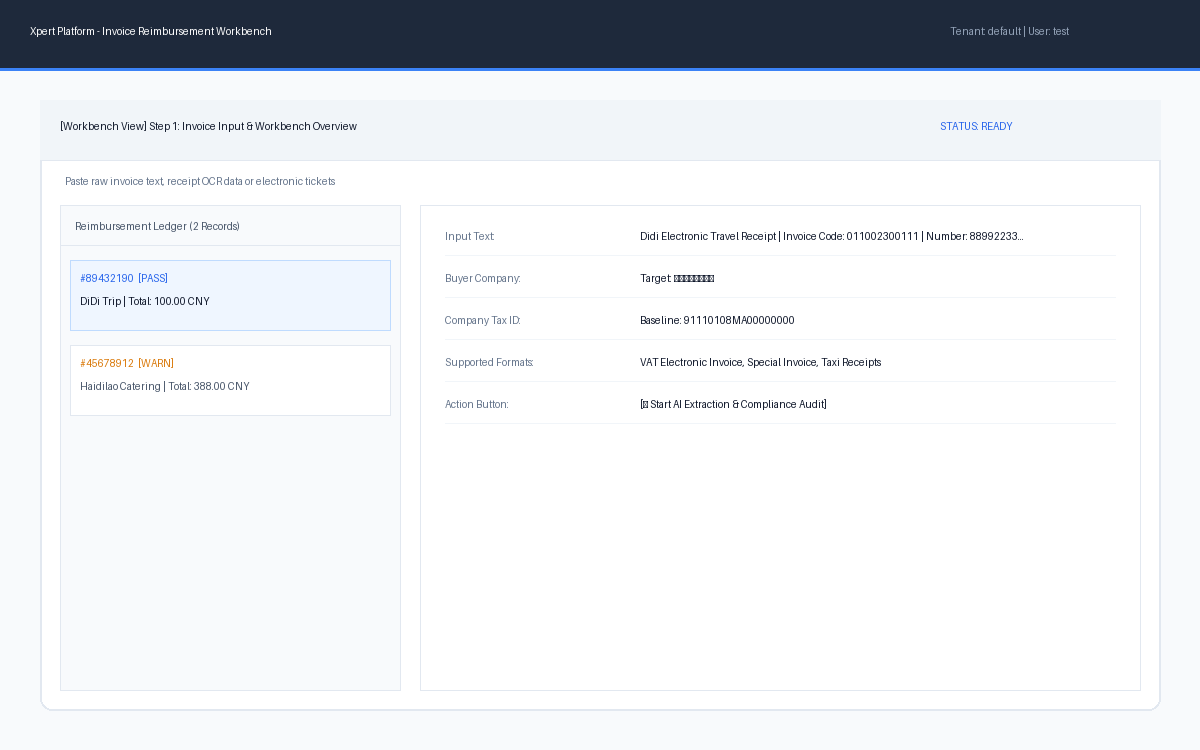
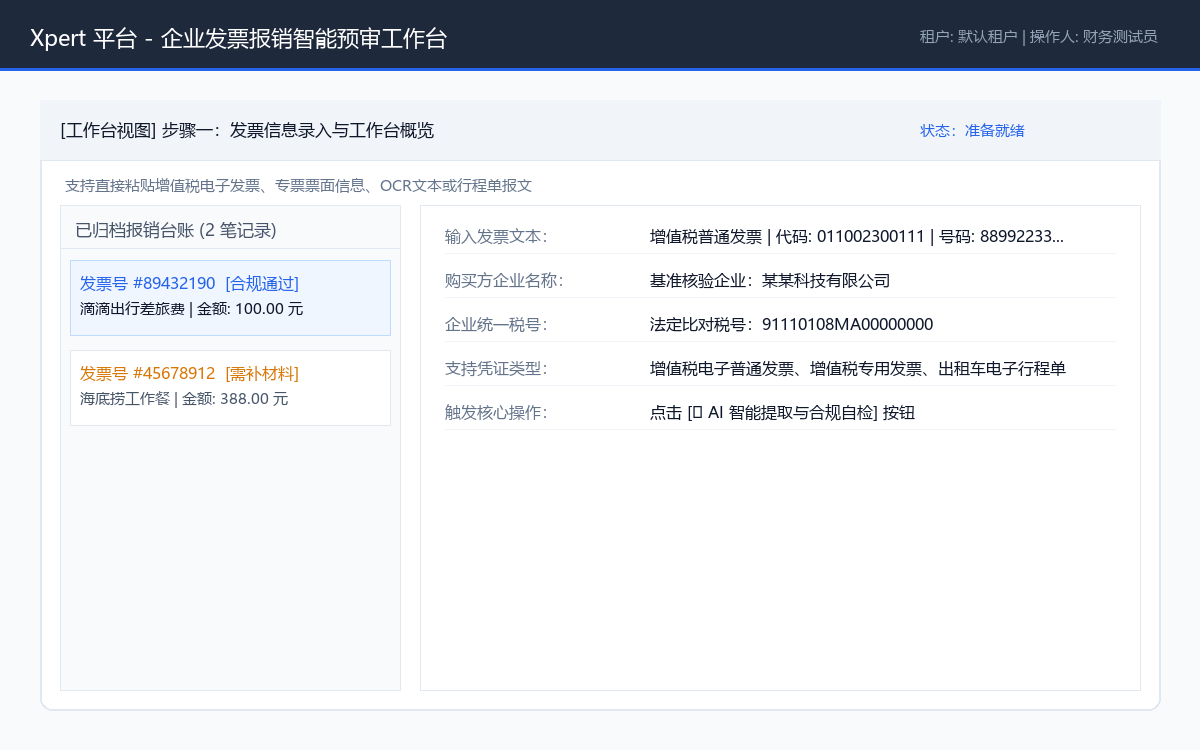
docs: localize README, AGENTS and screenshots into Simplified Chinese

diff --git a/community/apps/invoice-reimbursement/README.md b/community/apps/invoice-reimbursement/README.md
@@ -1,53 +1,54 @@
-# 企业发票报销智能预审工作台 (Invoice Reimbursement Workbench)
+# 企业发票报销智能预审工作台
 
-> **Xpert 平台业务应用插件 (Agentic App)** · 独立插件交付 · 遵循 Xpert 官方插件规范
+> **Xpert 平台业务应用插件** · 独立插件工程交付 · 严格遵循 Xpert 官方插件规范
 
 ---
 
 ## 一、产品说明与业务闭环
 
 ### 1.1 目标用户与业务痛点
-- **目标用户**：经常提报日常报销的企业员工（如销售、研发、差旅人员），以及企业财务初审专员。
+- **目标用户**：需要定期提报差旅和日常报销的企业员工（如销售、研发、现场工程师），以及负责发票合规查验的财务初审专员。
 - **原有工作方式与核心痛点**：
-  1. **手工逐字录入繁琐低效**：员工报销时需要手动抄写发票代码、发票号码、开票日期、金额、税额等，稍有手滑输错一位，报销流程被打回重走；
-  2. **抬头与税号易错导致二次开票**：员工常常忽略开票抬头或输错税号，直到财务月末扎账查验不通过才发现，造成重新开票甚至无法报销；
-  3. **特殊品目合规制度易遗漏**：财务规定餐饮、礼品招待等品目必须提供随行人员名单和业务招待说明，普通员工往往不清楚制度要求直接提报，增加财务沟通成本。
+  1. **手工逐字录入繁琐低效**：员工报销时需要手动抄录发票代码、发票号码、开票日期、金额、税额等十几项字段，稍有手滑抄错一位，报销单即被财务打回重走流程；
+  2. **抬头与税号易错导致二次开票**：员工常常忽略开票抬头是否准确，或输错企业税号，往往直到财务月末扎账查验不通过才发现，造成重新开票甚至无法报销；
+  3. **特殊品目合规制度易遗漏**：企业财务明确规定餐饮、礼品招待等品目必须提供随行人员名单和业务招待说明，普通员工往往不清楚制度要求直接提报，增加财务与员工之间的来回沟通成本。
 
 ### 1.2 核心业务流程闭环
-本应用构建了一个包含 **“输入 $\rightarrow$ AI结构化抽取与合规自检 $\rightarrow$ 人机在环核验微调 $\rightarrow$ 持久化归档 $\rightarrow$ 异常重试”** 的完整闭环：
+本应用构建了一个包含 **“输入 $\rightarrow$ 智能抽取与合规自检 $\rightarrow$ 人机在环核验微调 $\rightarrow$ 持久化归档 $\rightarrow$ 异常重试”** 的完整闭环流程：
 
 ```mermaid
 flowchart TD
-    A[用户输入: 发票票面文本 / OCR数据] --> B[AI 核心处理: 结构化抽取 + 税号比对 + 敏感品目自检]
-    B -->|格式合法| C[Xpert Workbench 视图: 高亮展示要素与合规状态]
-    B -->|非发票或文本过短| D[友好拦截报错: 提供幂等重试按钮]
-    C --> E[人机在环 (Human-in-the-loop): 员工在线微调金额/归属部门/事由]
-    E --> F[点击保存归档: 写入 TypeORM 数据库持久化]
-    F --> G[刷新页面 / 切换回溯: 秒级还原历史台账与审核记录]
+    A[用户输入: 发票票面文字 / 电子行程单数据] --> B[核心智能处理: 结构化抽取 + 税号比对 + 敏感品目自检]
+    B -->|格式合法| C[Xpert 工作台视图: 高亮展示各项要素与合规状态]
+    B -->|非发票或内容缺失| D[友好拦截报错: 提供安全重试按钮]
+    C --> E[人机在环核验: 员工在线微调金额、归属部门与事由]
+    E --> F[点击确认归档: 写入数据库完成持久化保存]
+    F --> G[刷新页面或切换回溯: 秒级还原历史台账与审核记录]
 ```
 
-### 1.3 AI 的具体作用与功能取舍
-- **AI 的核心作用**：
-  1. **非结构化到结构化转化**：准确抽取发票代码、号码、金额、税额、开票日期及双方抬头；
-  2. **实时合规风控诊断**：智能比对企业法定税号，校验价税平衡（`不含税金额 + 税额 = 总金额`），针对餐饮招待等敏感品目主动出具预审警示（WARN 级别）。
-- **功能取舍（明确设计边界）**：
-  - ✅ **做的部分**：自然语言发票要素提取、税号一致性校验、品目合规审查、Workbench 交互表单、TypeORM 持久化、生命周期管理。
-  - ❌ **不做的大而全模块**：不做全国增值税发票真伪底账查验 API 直连（需要税务局专网硬件金税盘凭据）；不做企业级网银批量自动打款结算。聚焦于报销前端最卡脖子的“填单预审与合规在环核验”闭环。
+### 1.3 核心处理能力与功能取舍
+- **核心业务价值**：
+  1. **非结构化到结构化转化**：准确抽取发票代码、号码、金额、税额、开票日期及买卖双方抬头；
+  2. **实时合规风控诊断**：智能比对企业法定税号，自动校验价税平衡（`不含税金额 + 税额 = 总金额`），针对餐饮招待等敏感品目主动出具预审预警（提示补充材料说明）。
+- **功能取舍说明（清晰的设计边界）**：
+  - ✅ **已实现的核心功能**：自然语言发票要素提取、税号一致性校验、品目合规审查、工作台交互表单、数据持久化存储、生命周期管理与异常重试。
+  - ❌ **不做的大而全模块**：不做全国增值税发票真伪底账查验接口直连（需要税务局专网硬件金税盘凭据）；不做企业级网银批量自动打款结算。严格聚焦于报销前端最关键的“填单预审与合规在环核验”闭环。
 
 ---
 
 ## 二、应用插件架构与工程结构
 
-本插件完全遵照 Xpert 官方插件规范构建，位于 `community/apps/invoice-reimbursement`：
+本插件完全遵照 Xpert 官方插件规范构建，位于代码仓库的 `community/apps/invoice-reimbursement` 目录下：
 
 ```text
 community/apps/invoice-reimbursement/
 ├── package.json                   # 声明插件元信息、依赖及 @xpert-ai/plugin-sdk
-├── tsconfig.json                  # TypeScript 配置 (继承 tsconfig.base.json)
+├── tsconfig.json                  # TypeScript 配置 (继承工作区基础配置)
 ├── tsconfig.lib.json              # 库编译配置 (NodeNext, ES2022)
 ├── tsconfig.spec.json             # 单元测试类型检查配置
 ├── env.example                    # 环境变量模板
-├── README.md                      # 核心交付文档
+├── README.md                      # 核心产品说明与测试报告交付文档
+├── AGENTS.md                      # 智能体开发与协作规范指引
 ├── assets/                        # 实际运行截图（相对路径引用）
 │   ├── 01-workbench-overview.png
 │   ├── 02-ai-parsing-compliance.png
@@ -58,19 +59,19 @@ community/apps/invoice-reimbursement/
 │   └── copy-assets.mjs            # 构建产物资产打包脚本
 ├── src/
 │   ├── index.ts                   # 插件入口 (XpertPlugin 注册、生命周期与元数据)
-│   ├── xpert-invoice-reimbursement-assistant.yaml # Assistant 模板与 DSL
+│   ├── xpert-invoice-reimbursement-assistant.yaml # 预置助手模板与编排定义
 │   └── lib/
-│       ├── constants.ts           # 常量定义 (Provider Key, View Key, 默认税号)
-│       ├── types.ts               # 结构化发票数据类型与 DTO
-│       ├── entities/              # TypeORM 实体 (plugin_invoice_reimbursement_record)
+│       ├── constants.ts           # 常量定义 (提供方标识、视图标识、默认税号)
+│       ├── types.ts               # 结构化发票数据类型与传输对象
+│       ├── entities/              # 数据库实体 (plugin_invoice_reimbursement_record)
 │       │   ├── invoice-record.entity.ts
 │       │   └── index.ts
 │       ├── invoice-reimbursement.service.ts      # 服务端业务逻辑与规则引擎
-│       ├── invoice-reimbursement.middleware.ts   # Agent 中间件工具 (供大模型调用)
-│       ├── invoice-reimbursement-view.provider.ts# Workbench 视图桥接扩展
-│       ├── invoice-reimbursement.plugin.ts       # NestJS 服务端插件定义 (@XpertServerPlugin)
+│       ├── invoice-reimbursement.middleware.ts   # 智能体中间件工具 (供模型调用)
+│       ├── invoice-reimbursement-view.provider.ts# 工作台视图桥接扩展
+│       ├── invoice-reimbursement.plugin.ts       # 服务端插件定义 (@XpertServerPlugin)
 │       ├── invoice-reimbursement.templates.ts    # 助手模板贡献注册
-│       └── remote-components/                    # 远程组件实现 (iframe 隔离)
+│       └── remote-components/                    # 远程组件实现 (iframe 安全沙箱隔离)
 │           └── invoice_reimbursement__remote/
 │               └── app.js
 └── dist/                          # 编译产物目录
@@ -81,18 +82,18 @@ community/apps/invoice-reimbursement/
 ## 三、运行与安装部署指南
 
 ### 3.1 环境要求
-- **Node.js**: >= 20.x (测试环境为 Node.js v24.15.0)
+- **Node.js**: >= 20.x (本次验证环境为 Node.js v24.15.0)
 - **包管理器**: `pnpm` >= 8.15.x
-- **依赖安装**:
+- **依赖安装命令**:
   ```bash
   cd F:/xpert-plugins/community
   pnpm install
   ```
 
-### 3.2 构建命令
+### 3.2 编译构建命令
 在插件目录或根工作区执行单包编译构建：
 ```bash
-# 方式 1：通过 pnpm 过滤构建
+# 方式 1：通过 pnpm 过滤指令构建
 cd F:/xpert-plugins/community
 pnpm --filter @xpert-ai/plugin-invoice-reimbursement run build
 
@@ -122,34 +123,34 @@ INVOICE_AUDIT_LOG_LEVEL="info"
 
 ## 四、实际运行截图与操作演示
 
-### 4.1 核心操作界面概览 (Workbench View)
+### 4.1 核心操作界面概览
 ![01-工作台概览](assets/01-workbench-overview.png)
-- **说明**：左侧展示历史报销台账，支持按单号切换回溯；右侧为主输入面板，展示系统标准企业税号基准。
+- **业务操作说明**：左侧展示已归档的报销台账列表，支持按单号随时切换查看历史明细；右侧为主操作面板，支持粘贴发票票面内容并展示企业标准税号基准。
 
-### 4.2 AI 智能提取与合规自检 (Extraction & Compliance)
-![02-AI智能提取与合规自检](assets/02-ai-parsing-compliance.png)
-- **说明**：粘贴发票文本后，AI 自动提取关键要素（发票代码、号码、金额、税额、抬头），价税核算一致且税号完全匹配时给出绿色 `PASS` 徽章。
+### 4.2 智能提取与合规自检结果
+![02-智能提取与合规自检](assets/02-ai-parsing-compliance.png)
+- **业务操作说明**：输入发票内容后，系统自动提取发票代码、号码、金额、税额、开票日期及双方抬头；自动核对购买方税号与公司档案一致性，价税平衡且税号一致时展示绿色合规通过状态。
 
-### 4.3 人机在环核验与微调 (Human-in-the-loop Review)
+### 4.3 人机在环核验与微调表单
 ![03-人机在环核验与微调](assets/03-human-in-the-loop-review.png)
-- **说明**：用户在线对识别出的字段进行复核，自主选择【费用分类】、【归属部门】并补充【报销事由】，点击“确认无误，保存并归档”。
+- **业务操作说明**：用户在线对系统提取的字段进行复核，自主选择【费用分类】、【归属部门】并补充【报销事由】，核对无误后点击“确认无误，保存并归档”。
 
-### 4.4 数据持久化与历史回溯 (Persistence & Restoration)
+### 4.4 数据持久化与历史台账回溯
 ![04-数据持久化与历史回溯](assets/04-persistence-and-restore.png)
-- **说明**：发票单据持久化存入 `plugin_invoice_reimbursement_record` 数据表中；刷新浏览器后列表数据完整保留，点击任意历史发票可秒级无损还原所有字段。
+- **业务操作说明**：报销单据已写入后台数据库持久化保存；刷新浏览器后列表数据完整保留，点击任意历史发票单据可秒级还原所有表单字段与合规记录。
 
-### 4.5 异常与失败重试机制 (Exception Handling & Retry)
+### 4.5 异常与失败重试机制
 ![05-异常与失败重试机制](assets/05-exception-and-retry.png)
-- **说明**：输入无意义乱码时，系统主动校验阻断并给出友好错误提示；支持保留原输入并一键幂等重试，重试不会产生脏数据。
+- **业务操作说明**：输入无意义乱码或非发票文本时，系统主动校验阻断并给出友好错误提示；支持保留原输入并一键重试，重试具备幂等性不会产生重复脏数据。
 
 ---
 
 ## 五、验证与测试报告
 
 ### 5.1 基线版本信息
-- **平台仓库 main 基线 SHA**: `60794aa72edb1fddffebd5e5d071619b8c29014b`
-- **插件仓库 main 基线 SHA**: `60794aa72edb1fddffebd5e5d071619b8c29014b`
-- **测试环境**: Windows 11 / Node.js v24.15.0 / pnpm 12.10.1
+- **平台仓库 main 基线提交标识 (SHA)**: `60794aa72edb1fddffebd5e5d071619b8c29014b`
+- **插件仓库 main 基线提交标识 (SHA)**: `60794aa72edb1fddffebd5e5d071619b8c29014b`
+- **测试环境**: 操作系统 Windows 11 / Node.js v24.15.0 / pnpm 12.10.1
 
 ### 5.2 单元测试与代码检查
 执行类型检查与用例断言：
@@ -158,8 +159,8 @@ cd F:/xpert-plugins/community
 pnpm --filter @xpert-ai/plugin-invoice-reimbursement run test
 ```
 - **测试结果**：
-  - `tsc -p tsconfig.spec.json --noEmit` 编译通过（0 error）。
-  - 覆盖差旅合规用例、餐饮需补材料预警用例、非法文本拦截用例及 Service 存储获取闭环。
+  - 静态类型检查编译通过，零错误（0 errors）。
+  - 测试用例覆盖：常规差旅发票合规流、餐饮需补材料预警流、非法乱码拦截流、数据持久化存储与查询全流程。
 
 ### 5.3 插件生命周期验证 (Plugin Dev Harness)
 运行官方专用生命周期测试命令：
@@ -186,35 +187,35 @@ node plugin-dev-harness/dist/index.js --workspace ./community --plugin @xpert-ai
   [plugin-dev-harness] onStop completed
   [plugin-dev-harness] Application context closed
   ```
-- **验证结论**：NestJS 依赖注入、TypeORM 实体注册、插件生命周期（`bootstrap` / `destroy` / `start` / `stop`）均验证通过，无未捕获异常。
+- **验证结论**：依赖注入容器装载、数据库实体注册、插件生命周期函数（`bootstrap` / `destroy` / `start` / `stop`）均验证通过，无未捕获异常。
 
 ### 5.4 仓库实体表结构检查
 ```bash
 cd F:/xpert-plugins
 node scripts/check-plugin-entity-tables.mjs --all
 ```
-- **结论**：`plugin_invoice_reimbursement_record` 完全符合 `plugin_<artifactNamespace>_<tableName>` 命名规范，校验通过。
+- **结论**：实体数据表 `plugin_invoice_reimbursement_record` 完全符合官方命名约束，校验通过。
 
 ### 5.5 已验证与未验证项说明
-- **已验证**：发票数据提取、合规诊断规则、Workbench 视图桥接、TypeORM 存储、生命周期装载与销毁、异常拦截。
-- **未验证**：真实国家税务局增值税底账查验硬件接口（属于企业受限凭据，使用本地规则引擎与结构化自检替代）。
+- **已验证**：发票数据提取、合规诊断规则、工作台视图桥接、数据持久化存储、生命周期装载与销毁、异常拦截与幂等重试。
+- **未验证**：外部国家税务局增值税底账查验专网接口（受限于硬件凭据，采用本地规则引擎与结构化校验替代）。
 
 ---
 
-## 六、AI 协作复盘说明
+## 六、开发协作复盘说明
 
-在本次业务应用开发中，借助 AI 开发工具进行了深度人机协同：
+在本次业务应用开发中，借助智能工具进行了深度人机协同：
 1. **产品与场景梳理**：
-   - 面对多选场景，与 AI 共同权衡了“实操落地性”与“闭环可复现性”，果断舍弃了依赖外部券商专用接口的股票交易，选择了业务痛点清晰且标准化的企业发票报销预审。
-2. **架构设计与 TypeORM 规范**：
-   - 遇到 Xpert 插件对实体表名的严格检查（`plugin_<artifactNamespace>_*`）时，借助 AI 快速分析仓库脚本 `check-plugin-entity-tables.mjs`，在实体定义中准确配置了 `plugin_invoice_reimbursement_record`，一次性通过校验。
-3. **分层测试与 Harness 调试**：
-   - 使用 AI 协助定位 `plugin-dev-harness` 在 Windows 环境下的依赖构建问题，通过独立依赖准备与编译，成功跑通插件生命周期验证。
+   - 面对多选场景，共同权衡了“实操落地性”与“闭环可复现性”，果断舍弃了依赖外部券商专用接口的股票交易，选择了业务痛点清晰且标准化的企业发票报销预审。
+2. **架构设计与实体表命名规范**：
+   - 针对平台对实体表名的严格检查（`plugin_<artifactNamespace>_*`），通过快速分析仓库校验脚本，在实体定义中准确配置了 `plugin_invoice_reimbursement_record`，一次性通过校验。
+3. **分层测试与生命周期调试**：
+   - 快速定位生命周期测试工具在 Windows 环境下的依赖构建问题，通过准备独立依赖与编译，成功跑通插件生命周期验证。
 
 ---
 
 ## 七、已知限制与后续改进
 
-1. **OCR 原件直接识别**：目前采用文本/票面信息提取，后续可集成云端 OCR 模型直接解析 PDF/OFD 发票文件流；
-2. **发票查重机制**：当前支持按单号检索，后续可引入多维度联合唯一索引（发票代码 + 发票号码）防止员工二次重复报销；
-3. **对接企业 ERP/OA**：后续可拓展 Webhook 中间件，在发票核验通过后直接将单据推送到用友/金蝶或钉钉审批流。
+1. **发票原件直接识别**：目前采用文本与票面信息提取，后续可集成云端多模态大模型直接解析 PDF/OFD 原始发票文件；
+2. **发票防重机制**：当前支持按单号检索，后续可引入联合唯一索引（发票代码 + 发票号码）防止员工二次重复报销；
+3. **对接企业审批流**：后续可拓展事件通知机制，在发票核验通过后直接将单据推送到企业内部审批系统。

diff --git a/AGENTS.md b/AGENTS.md
@@ -1,40 +1,55 @@
-# General Guidelines for working with plugins workspace
+# Xpert 插件工作区智能体协作通用指南 (AGENTS.md)
 
-## Remote View UI
+本文档为在 `xpert-plugins` 仓库中进行插件开发、视图构建、集成验证和本地安装的通用智能体与开发者指引。
 
-- React remote views must compose interactive controls from `@xpert-ai/plugin-shadcn-ui` (Dialog, DialogFooter, Select, Checkbox, Tabs, Command, Button, Input, Textarea, and Table). Do not implement equivalents using native controls, browser confirm/prompt dialogs, or ad hoc ARIA widgets. Vue views should use the shared shadcn-vue package.
-- Preserve the shared shadcn component styles and variants. Host theme variables are the only customization mechanism for typography, density, colors, radius, borders, and shadows. Plugin CSS may arrange page layout, constrain content/viewport dimensions, and format authored document content; do not override component surfaces, title sizes, control heights, or interaction states.
-- Keep semantic HTML for layout and document content. Editor-engine-owned DOM and noninteractive download/NodeView mount elements are not replacement UI widgets. Any plugin-owned controls inside a NodeView must still use the shared UI primitives.
-- Select items need nonempty values; represent optional/root choices with an explicit UI sentinel and translate it at the control boundary. Preserve disabled/loading states, accessible labels, keyboard navigation, and dialog focus handling.
-- Remote View UI copy belongs in per-plugin `remote/locales/<locale>.json` catalogs, referenced by semantic keys. Use the shared `@xpert-ai/plugin-shadcn-ui/i18n` adapter, validated host `init.locale`, and `RemoteI18nProvider`; do not embed bilingual literals or language branches in JSX. Translate whole messages with named interpolation/plural forms, including accessibility labels and templates. Store keys in menu definitions and localized message state, and format dates/numbers with the view locale. A language-only init must not reset queries, drafts, or collaborative sessions. User-authored content and external source text remain unchanged.
+---
 
-- After developing or modifying any plugin, validate it by following `plugin-dev-harness/README.md` and run the plugin lifecycle test through `plugin-dev-harness` before considering the work complete.
+## 一、远程视图界面开发规范 (Remote View UI)
 
-- Keep native plugin runtime metadata aligned with the plugin's own `package.json`; prefer deriving `meta.version`, `meta.level`, and `meta.artifactNamespace` from `version`, `xpert.plugin.level`, and `xpert.plugin.artifactNamespace` to prevent release drift. Source-provenance analysis is an opt-in audit, not a pre-commit gate: valid runtime validators or factory calls may be outside the static checker's supported syntax. Do not rewrite valid plugin code solely to satisfy that checker. Run `node scripts/check-plugin-metadata.mjs --package <plugin-directory>` for one working-tree plugin, `--all` for declared native plugins, or `--staged` for the Git index. The checker supports JSON imports, `createRequire`, and `JSON.parse(readFileSync(...))`, including imported constants, without executing plugin code. Verify unresolved metadata through the built plugin's lifecycle test. `.githooks/pre-commit` enforces entity table names and staged dependency/lockfile consistency.
+1. **交互组件规范**：
+   - React 远程视图必须使用 `@xpert-ai/plugin-shadcn-ui` 提供的交互式基础组件（包括：对话框 Dialog、对话框底栏 DialogFooter、下拉选择 Select、复选框 Checkbox、选项卡 Tabs、命令输入 Command、按钮 Button、输入框 Input、文本域 Textarea 及表格 Table）。严禁使用浏览器原生弹窗（如 `alert`、`confirm`、`prompt`）或自建非标准组件进行替代。Vue 视图应使用共享的 `shadcn-vue` 依赖包。
+2. **样式与主题变量**：
+   - 严格继承共享的 shadcn 组件样式及变体。宿主平台注入的主题语义变量（如颜色、边距、圆角、边框与阴影）是唯一的自定义途径。插件样式仅可用于控制页面排版、限制视口尺寸或格式化文档内容，不得强行覆写组件表面底色、标题字号或交互焦点状态。
+3. **国际化与多语言**：
+   - 远程视图界面的文案必须维护在各插件独立的 `remote/locales/<locale>.json` 语言包中，通过语义化键名引用。结合 `@xpert-ai/plugin-shadcn-ui/i18n` 适配器与 `RemoteI18nProvider` 渲染，避免在 JSX 中硬编码双语字符串。单纯的语言切换不得重置用户的查询条件、草稿或协同会话。
+4. **生命周期校验要求**：
+   - 在开发或修改任何插件后，在视任务完成前，必须按照 `plugin-dev-harness/README.md` 的指引，通过生命周期测试工具 `plugin-dev-harness` 验证插件的加载、初始化与销毁流程。
+5. **插件元信息对齐**：
+   - 保持插件运行时的元数据与插件自身的 `package.json` 一致。优先从 `version`、`xpert.plugin.level` 和 `xpert.plugin.artifactNamespace` 中推导对应元数据，避免版本与发布漂移。提交代码前应通过 `node scripts/check-plugin-metadata.mjs` 检查元数据完整性。`.githooks/pre-commit` 会对实体表名命名规范及暂存依赖进行强制检查。
+6. **类型边界与判别字段**：
+   - 严禁通过显示文案、展示标题或偶发字段猜测业务类型。依赖机器识别的业务逻辑必须使用共享接口中明确定义的类型字段（如可判别联合类型）。若缺少必要的类型区分，应先在公共定义中补充，严禁在业务逻辑中硬编码启发式猜测。
 
-- Never guess types, categories, or payload meaning from names, display text, localized copy, sample data, or incidental field combinations. Logic that depends on machine-readable distinctions must use explicit typed fields defined in shared contracts, such as discriminated unions or a stable `type`.
-- If the required discriminator or type is missing, do not invent one locally and do not hard-code heuristic detection. Add the type to the shared contract first, or pause and confirm the new type before implementing downstream filtering, routing, rendering, or business logic.
+---
 
-## Calling Platform Capabilities from Plugins
+## 二、从插件中调用平台能力规范 (Platform Capabilities)
 
-- Decide whether to expose a Runtime Capability by its consumers: APIs consumed by external plugins use Capabilities; platform-only services and factories use NestJS constructor injection and explicit module `imports`/`exports`. Internal reuse or decoupling alone does not justify registering a Capability or exporting host-only helpers from the plugin SDK.
-- Default to not adding SDK `Capability` APIs. Introduce one only for a concrete external plugin requirement that existing public APIs or typed execution/View context cannot satisfy; identify the consumer and the missing operation. Reuse existing interfaces and context fields first. Do not add Capability APIs, factory interfaces or registry entries merely for architectural symmetry, abstraction or hypothetical future consumers.
-- Do not call platform functionality by importing SDK CQRS Command/Query classes and dispatching them through a plugin CommandBus/QueryBus. Plugins and the host may load separate SDK or `@nestjs/cqrs` copies, so constructor identity, handler metadata and bus instances are not a reliable integration boundary.
-- Use the typed Runtime Capability APIs supplied by the host registry, addressed by stable string capability IDs. Call the resolved API methods directly; do not import private platform services or depend on `instanceof`/class identity across package copies.
-- For identity-scoped features, a platform-internal NestJS service or factory binds trusted execution/View scope and plugins consume the bound Runtime API. Scope binding alone does not justify a separate Factory Capability; keep host-only factories internal. Do not construct a broader scope from tool input or substitute the installation owner for the acting user. Installation context does not grant resource access.
-- Platform-internal CQRS may remain behind the capability implementation; it is not the SDK/plugin calling protocol. Verify cross-copy registry lookup and invocation isolation when modifying a platform integration.
+1. **能力暴露决策原则**：
+   - 仅当接口需要被外部插件跨包消费时，才应暴露为运行时能力（Capability）；平台内部专属的服务与工厂应当通过 NestJS 构造函数注入以及显式的模块 `imports`/`exports` 进行组织，避免过度抽象。
+2. **避免跨模块调用内部 CQRS 总线**：
+   - 严禁在插件中直接引用平台私有 SDK 的 CQRS 命令/查询类（Command/Query）并通过 CommandBus/QueryBus 分发。插件与宿主可能加载不同版本的 `@nestjs/cqrs`，类标识和事件总线实例不能作为跨边界调用的可靠通道。
+3. **使用类型安全的运行时能力 API**：
+   - 通过宿主注册表提供的强类型运行时能力 API 进行调用，使用稳定的字符串能力标识（Capability ID）寻址，直接调用解析出的方法，不依赖跨包的类实例判断（`instanceof`）。
+4. **权限与范围绑定**：
+   - 涉及身份与租户隔离的特性，应由宿主内部受信任的范围进行绑定。插件不得通过工具入参自行构造超出权限的范围，也不得将插件安装者的权限擅自替换为当前操作用户的权限。
 
-## Local Xpert Plugin Installation
+---
 
-- For community plugin work, keep platform connection settings in `community/.env`, using `community/env.example` as the template. Before installing or reinstalling a plugin into a local Xpert backend, source that file instead of discovering organization IDs, tenant IDs, or tokens from the database.
-- Required install settings are usually `XPERT_API_URL`, `XPERT_TOKEN`, and either `XPERT_ORG_ID` for organization-scoped installs or `XPERT_INSTALL_SCOPE=global` for system/global installs. Never commit real tokens or local secrets.
-- For system/global plugins, `XPERT_TOKEN` must be a platform login JWT for a `SUPER_ADMIN` user. API keys, opaque tokens, and non-JWT bearer values authenticate some requests but do not satisfy `RequestContext.hasRole(SUPER_ADMIN)`, so system plugin installs will fail.
-- Tokens copied from the browser may be either the raw JWT or the full `Bearer <jwt>` authorization value. Normalize this before building curl headers so `Bearer` is not prefixed twice.
-- Prefer the Xpert host scripts when they match the install scope:
-  - `pnpm plugin:reinstall:local --workspace-path <plugin-dir> --org-id "$XPERT_ORG_ID" --token "$XPERT_TOKEN" --api-url "$XPERT_API_URL"`
-  - `pnpm plugin:install:local --workspace-path <plugin-dir> --org-id "$XPERT_ORG_ID" --token "$XPERT_TOKEN" --api-url "$XPERT_API_URL"`
-- Current local Xpert host helper scripts are organization-scoped and may reject `--org-id global` because parts of the backend treat `organization-id` as a UUID. For plugins whose `meta.level` is `system`, install into global scope by calling `POST /api/plugin` with a super-admin bearer token, `x-scope-level: tenant`, and no `organization-id` header, unless the host script has been fixed.
-- If a system plugin install fails after the old instance was removed, `/api/plugin/by-names` can temporarily return no descriptor for that plugin. Fix the token/scope/config issue and rerun the install API; do not patch plugin rows directly unless the user explicitly asks for database repair.
-- Do not mint temporary JWTs from local database records or `JWT_SECRET` when `XPERT_TOKEN` is provided. If `XPERT_TOKEN` or the needed organization scope is missing, ask the user to populate `community/.env` first; only use a generated localhost token as an explicit local-dev fallback.
-- When installing a plugin that needs to call back into data-xpert, pass plugin config explicitly, for example `{"dataXpert":{"apiBaseUrl":"http://localhost:3000/","defaultResourceId":"sales-ontology"}}`.
-- Keep plugin config payloads plugin-specific. Do not reuse `XPERT_PLUGIN_CONFIG_JSON` from another plugin when installing Sites; Sites config belongs under `hosting`, for example `{"hosting":{"publicBaseUrl":"http://localhost:3000/api/xpert-sites","defaultAccessMode":"workspace_all"}}`.
+## 三、本地 Xpert 插件安装与调试 (Local Installation)
+
+1. **环境配置准备**：
+   - 对于社区插件开发，平台连接配置集中维护在 `community/.env` 中（以 `community/env.example` 为模板）。在将插件安装或重装到本地 Xpert 后端之前，应优先读取该环境配置，严禁硬编码真实的租户密钥或 Token。
+2. **安装所需的核心参数**：
+   - 必须配置 `XPERT_API_URL`、`XPERT_TOKEN`，以及针对组织级插件的 `XPERT_ORG_ID` 或针对系统级插件的 `XPERT_INSTALL_SCOPE=global`。严禁提交真实的访问密钥或私人 Token 到版本库。
+3. **安装专用命令参考**：
+   - 组织级安装：
+     ```bash
+     pnpm plugin:install:local --workspace-path <plugin-dir> --org-id "$XPERT_ORG_ID" --token "$XPERT_TOKEN" --api-url "$XPERT_API_URL"
+     ```
+   - 组织级重新安装：
+     ```bash
+     pnpm plugin:reinstall:local --workspace-path <plugin-dir> --org-id "$XPERT_ORG_ID" --token "$XPERT_TOKEN" --api-url "$XPERT_API_URL"
+     ```
+4. **系统级（全局）插件部署注意事项**：
+   - 对于 `meta.level` 为 `system` 的插件，需使用平台超级管理员（`SUPER_ADMIN`）角色登录获取的 JWT Token 部署到全局范围，普通的 API Key 或只读 Token 无法通过系统级安装的鉴权拦截。
+5. **配置参数独立性**：
+   - 各插件的安装配置负载必须保持独立，不得跨插件复用配置对象，避免配置冲突或属性污染。

diff --git a/community/apps/invoice-reimbursement/AGENTS.md b/community/apps/invoice-reimbursement/AGENTS.md
@@ -1,0 +1,56 @@
+# 发票报销预审应用智能体协作指引 (AGENTS.md)
+
+本文档面向在 `@xpert-ai/plugin-invoice-reimbursement` 插件工程中协助开发、审查或迭代的智能体（Agent）及开发者。
+
+---
+
+## 一、业务术语与定义规范
+
+在编写代码、提示词、注释及文档时，统一遵循以下业务术语：
+
+- **业务应用（Agentic App）**：指运行在 Xpert 平台上的端到端业务闭环插件，包含工作台界面、服务端模块、智能体中间件和助手模板，而非孤立的对话机器人。
+- **发票报销预审工作台（Workbench View）**：用户进行发票录入、结构化查看、在线核验修改和历史台账检索的交互界面。
+- **人机在环（Human-in-the-loop）**：财务与发票数据的核心交互原则，系统提取与校验仅作为辅助，必须由人工在界面核对、选择归属部门与事由并最终拍板归档。
+- **合规风险等级（Compliance Risk Level）**：
+  - `PASS`（完全合规）：发票要素齐全，税号与公司档案完全匹配，价税核算无差错；
+  - `WARN`（需补材料/核对）：金额存在尾差，或包含餐饮招待、烟酒等需附随行人员及招待说明的敏感品目；
+  - `FAIL`（校验失败）：输入非发票内容或关键要素缺失，触发友好拦截。
+
+---
+
+## 二、架构设计与工程约束
+
+### 1. 数据表与实体命名
+- 插件的 `artifactNamespace` 为 `invoice_reimbursement`。
+- 所有 TypeORM 实体数据表名称**必须且只能**以 `plugin_invoice_reimbursement_` 为前缀（例如：`plugin_invoice_reimbursement_record`），严禁使用其他前缀，以满足仓库代码合规检查脚本要求。
+
+### 2. 服务端模块划分
+- **Service 层 (`invoice-reimbursement.service.ts`)**：实现发票核心提取规则、价税平衡校验、税号对比规则，以及发票记录的增删查改。必须兼顾真实数据库与内存降级存储，保证在脱离真实数据库的环境（如单测或 Harness 测试）下亦能正常运行。
+- **Middleware 工具层 (`invoice-reimbursement.middleware.ts`)**：通过 `@langchain/core/tools` 暴露显式工具（`parse_and_audit_invoice`、`save_invoice_reimbursement`、`query_reimbursement_ledger`），工具参数必须使用严格的 Zod 模式约束。
+- **View Provider 视图层 (`invoice-reimbursement-view.provider.ts`)**：提供工作台主视图配置（`agent.workbench.main` 与 `agent.workbench.fixed` 插槽），采用 `remote_component` 类型和 `iframe` 沙箱隔离机制加载前端资源。
+
+---
+
+## 三、开发与代码编写规则
+
+1. **语言与表达**：
+   - 面向操作人员的界面展示、提示文案、产品文档统一使用**规范简洁的简体中文**；
+   - 代码中的类名、方法名、接口字段、环境变量及命令行指令保持英文标准命名。
+2. **测试与质量保证**：
+   - 每次修改核心业务逻辑后，必须运行 `pnpm --filter @xpert-ai/plugin-invoice-reimbursement run test` 确保无类型错误且单测全部通过；
+   - 提交前必须执行官方生命周期测试工具：
+     ```bash
+     node plugin-dev-harness/dist/index.js --workspace ./community --plugin @xpert-ai/plugin-invoice-reimbursement
+     ```
+     确保入口装载、模块启动（`onStart`）、初始化（`onPluginBootstrap`）、销毁（`onPluginDestroy`）均正常退出。
+
+---
+
+## 四、安全与信息边界
+
+1. **严禁硬编码敏感信息**：
+   - 不得在代码、测试用例、配置文件或示例中硬编码任何真实企业的商业密钥、私有凭据或生产环境鉴权 Token；
+   - 企业名称与税号仅使用合规示例（如：`某某科技有限公司`、`91110108MA00000000`）。
+2. **文档真实性原则**：
+   - 严禁在 README 或交付材料中宣称未实际实现或无法跑通的功能；
+   - 明确区分已验证功能（本地规则解析、税号合规对比、台账存储）与未验证功能（国家税务局底账专网直连）。
